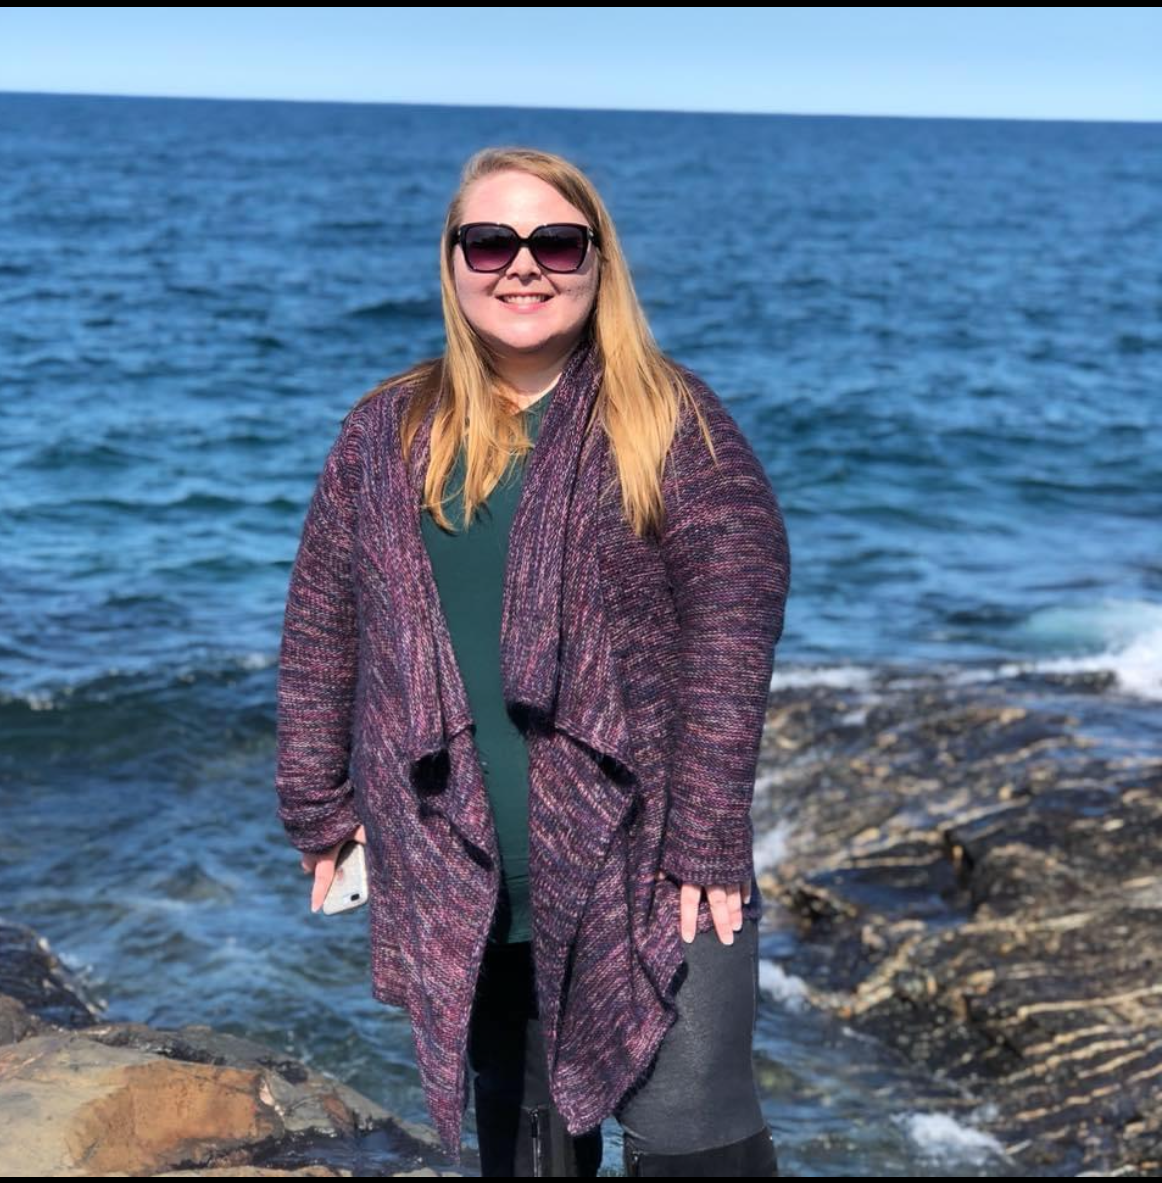
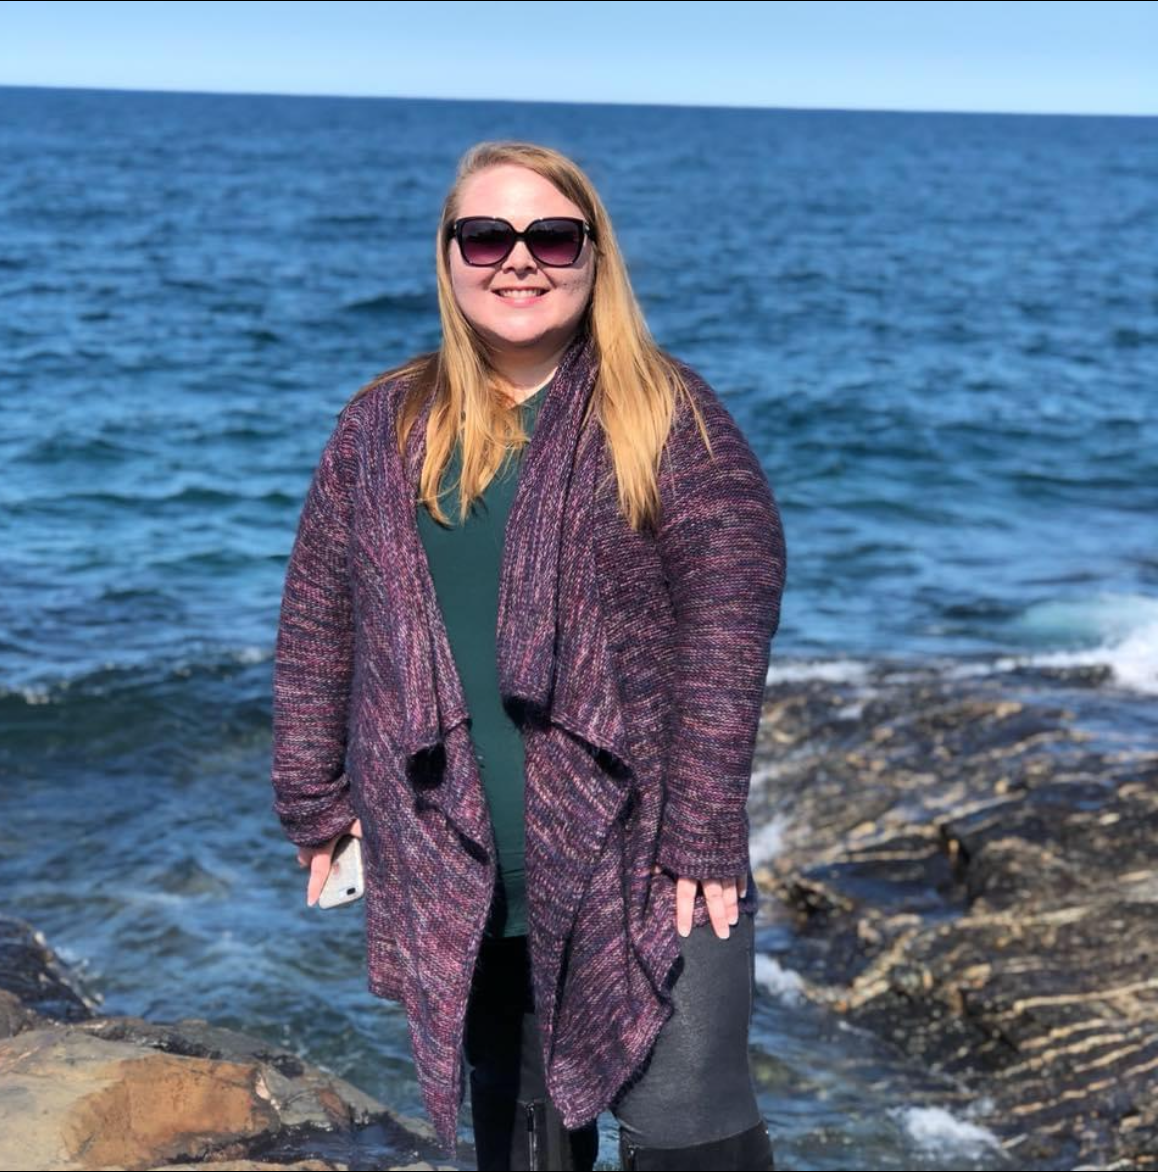
Added styles to About Section

diff --git a/css/style.css b/css/style.css
@@ -172,12 +172,17 @@ header .home-title h2 {
 
 .about .biography {
   display: flex;
-  flex-flow: row wrap;
-  width: 100%;
+  align-content: space-between;
+  flex-direction: column;
+  justify-content: center;
+  flex-wrap: wrap;
 }
 
 .about .biography figure {
   width: 45%;
+  display: flex;
+  align-self: center;
+  justify-self: center;
 }
 
 .about .biography figure img {
@@ -188,8 +193,12 @@ header .home-title h2 {
 }
 
 .about .biography h3 {
-  display: flex;
-  flex-direction:row;
+  text-align: center;
+}
+
+.about .biography p {
+  text-align: center;
+  margin: 15px;
 }
 
 /*Skills Styles*/
